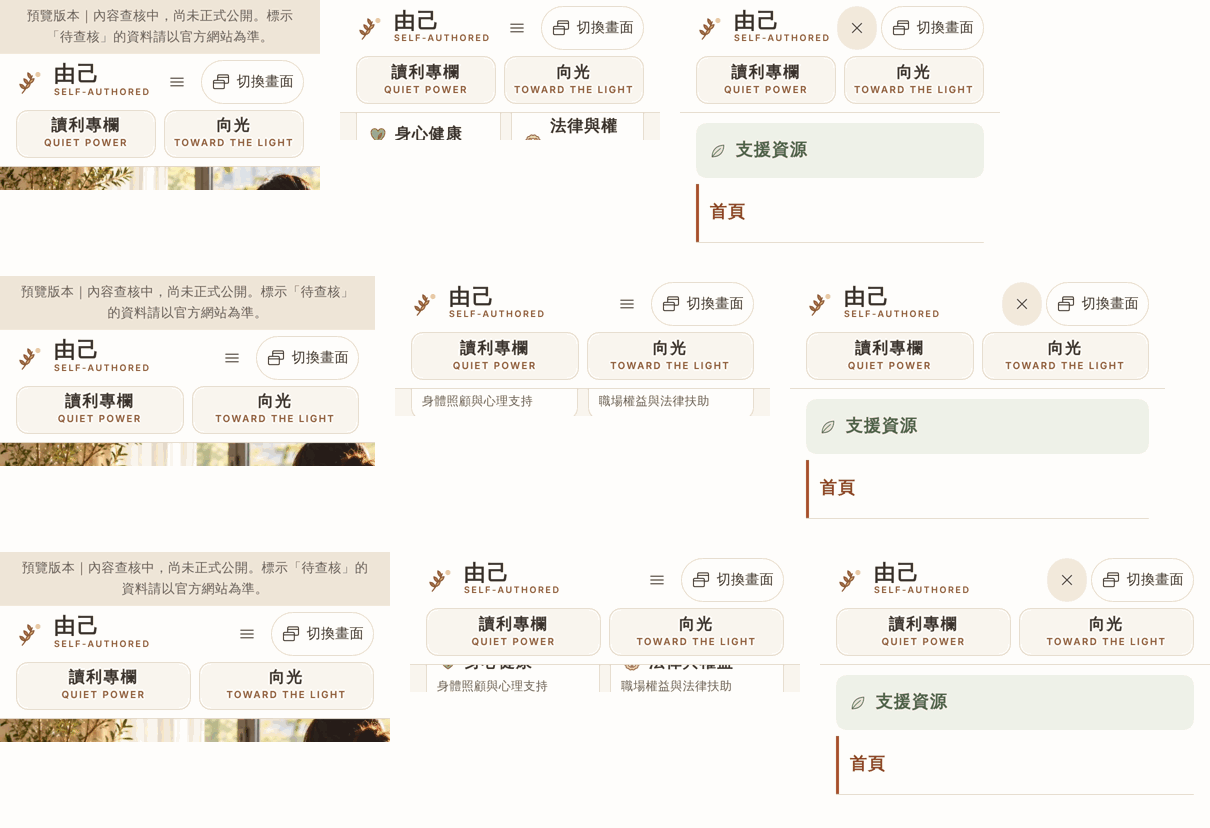
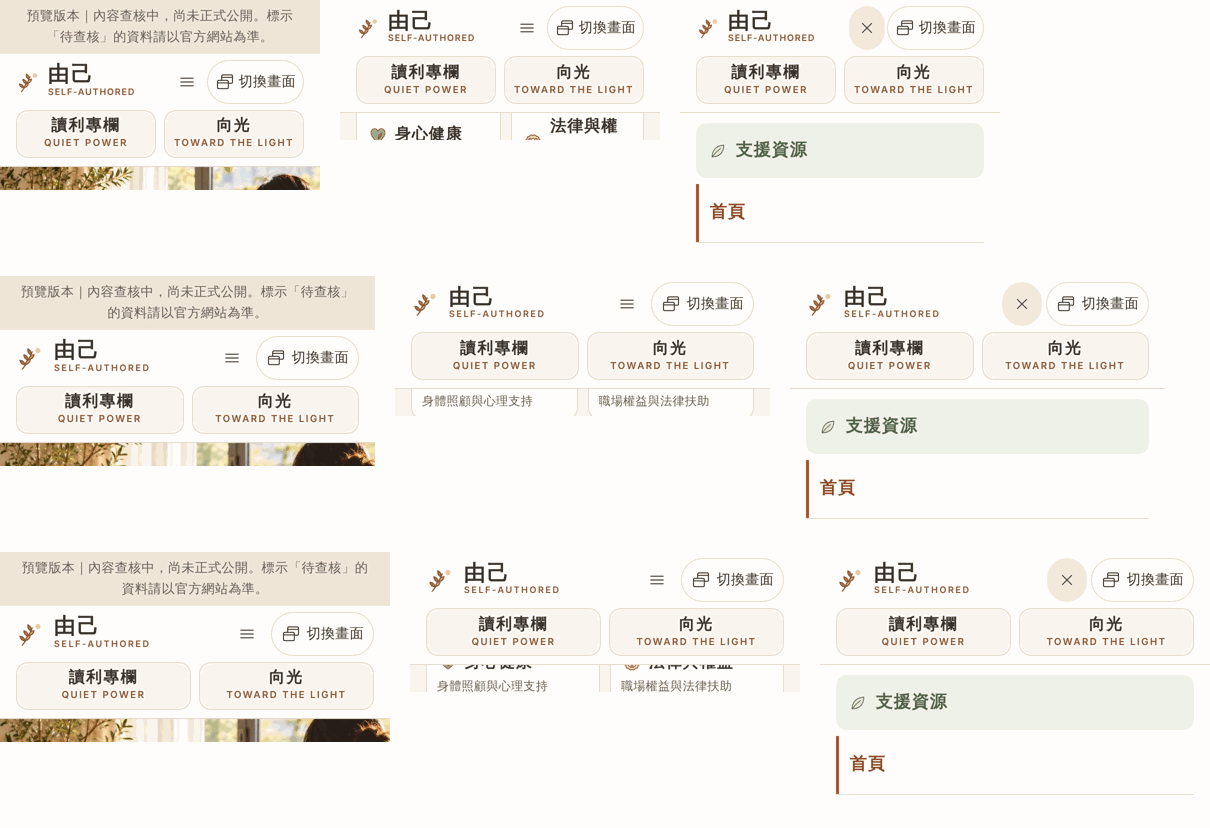
修正 320px 頁首在 CI 字型下品牌英文與選單圖示重疊
- 408cc45 的 GitHub Actions 為 38／39：320px 時 SELF-AUTHORED 碰到選單圖示
- 359px 以下收緊頁首間距（英文字距、葉枝圖形、按鈕內距），本機間距 6px → 33px
- 測試門檻未修改；更新頁首截圖與 V3.1 報告

Claude-Session: https://claude.ai/code/session_01Y8iXUK8ACHR2xjDVJe1ZDv

diff --git a/src/assets/css/main.css b/src/assets/css/main.css
@@ -650,3 +650,12 @@ main > .section:last-child { padding-bottom: clamp(48px, 7vw, 96px); }
 .support-entry-text strong { font-size: 1.05rem; color: #4E6148; }
 .support-entry-text small { font-size: 0.85rem; color: var(--muted); line-height: 1.5; }
 .about-hub { margin-top: 4px; }
+
+/* 320–359px：再收緊頁首間距，讓品牌文字與選單、切換畫面之間保留足夠空間（不同字型寬度也不重疊） */
+@media (max-width: 359px) {
+  .brand { column-gap: 6px; }
+  .brand-mark { width: 26px; height: 26px; }
+  .brand-en { letter-spacing: 0.1em; }
+  .header-actions { gap: 2px; }
+  .hdr-btn { padding: 0 7px; gap: 4px; }
+}

diff --git a/docs/ACCEPTANCE-V3.1.md b/docs/ACCEPTANCE-V3.1.md
@@ -93,7 +93,17 @@
 
 已驗證新測試在修正前的樣式會失敗、修正後通過。
 
-### 本機結果
+**第一次推送後 GitHub Actions 失敗（commit `408cc45`）**：[Run 38595636174](https://github.com/daycool858000-hue/morning-light-magazine/actions/runs/38595636174) 為 39 項通過 38 項。
+
+- **失敗內容**：在 320px 寬度，CI 主機的英文字型略寬，「SELF-AUTHORED」碰到選單圖示（本機量測當時兩者只相距 6px）。
+- **修正**：只在 359px 以下收緊頁首間距，元素與文字都沒有刪減：
+  - SELF-AUTHORED 字距 0.18em → 0.1em
+  - 葉枝圖形 30px → 26px
+  - 頁首按鈕左右內距 9px → 7px
+- **結果**：本機 320px 的間距由 6px 增加到 33px。
+- **測試門檻未修改**。
+
+### 本機結果（修正後）
 
 ```
 ✔ 所有 17 個頁面於 320/375/390/768/1024/1440px 無水平溢位
